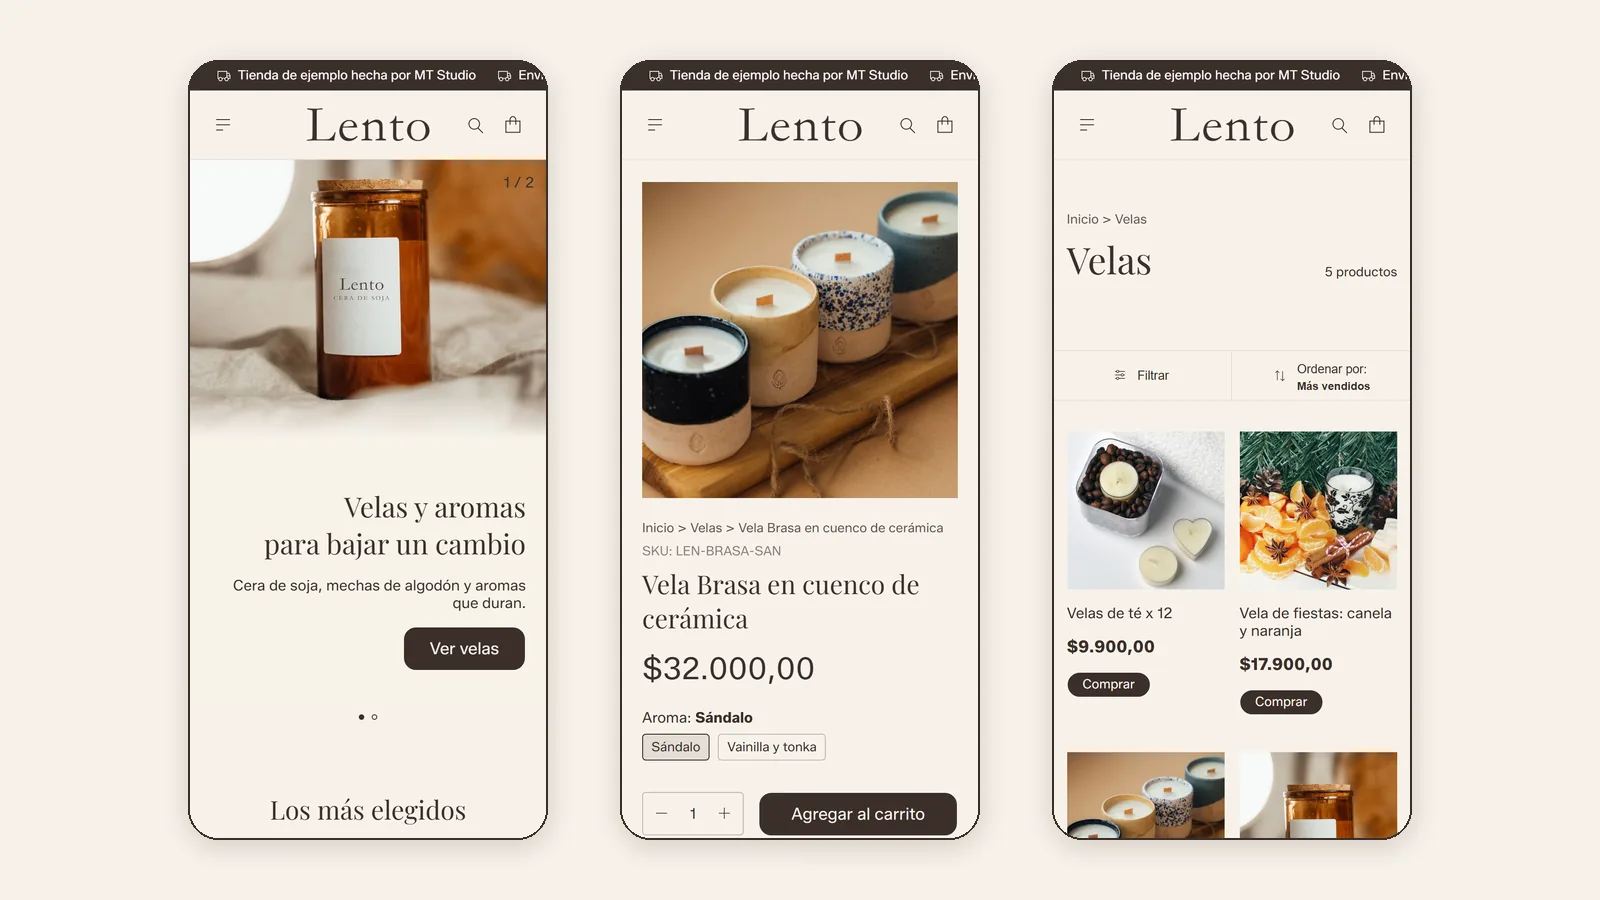
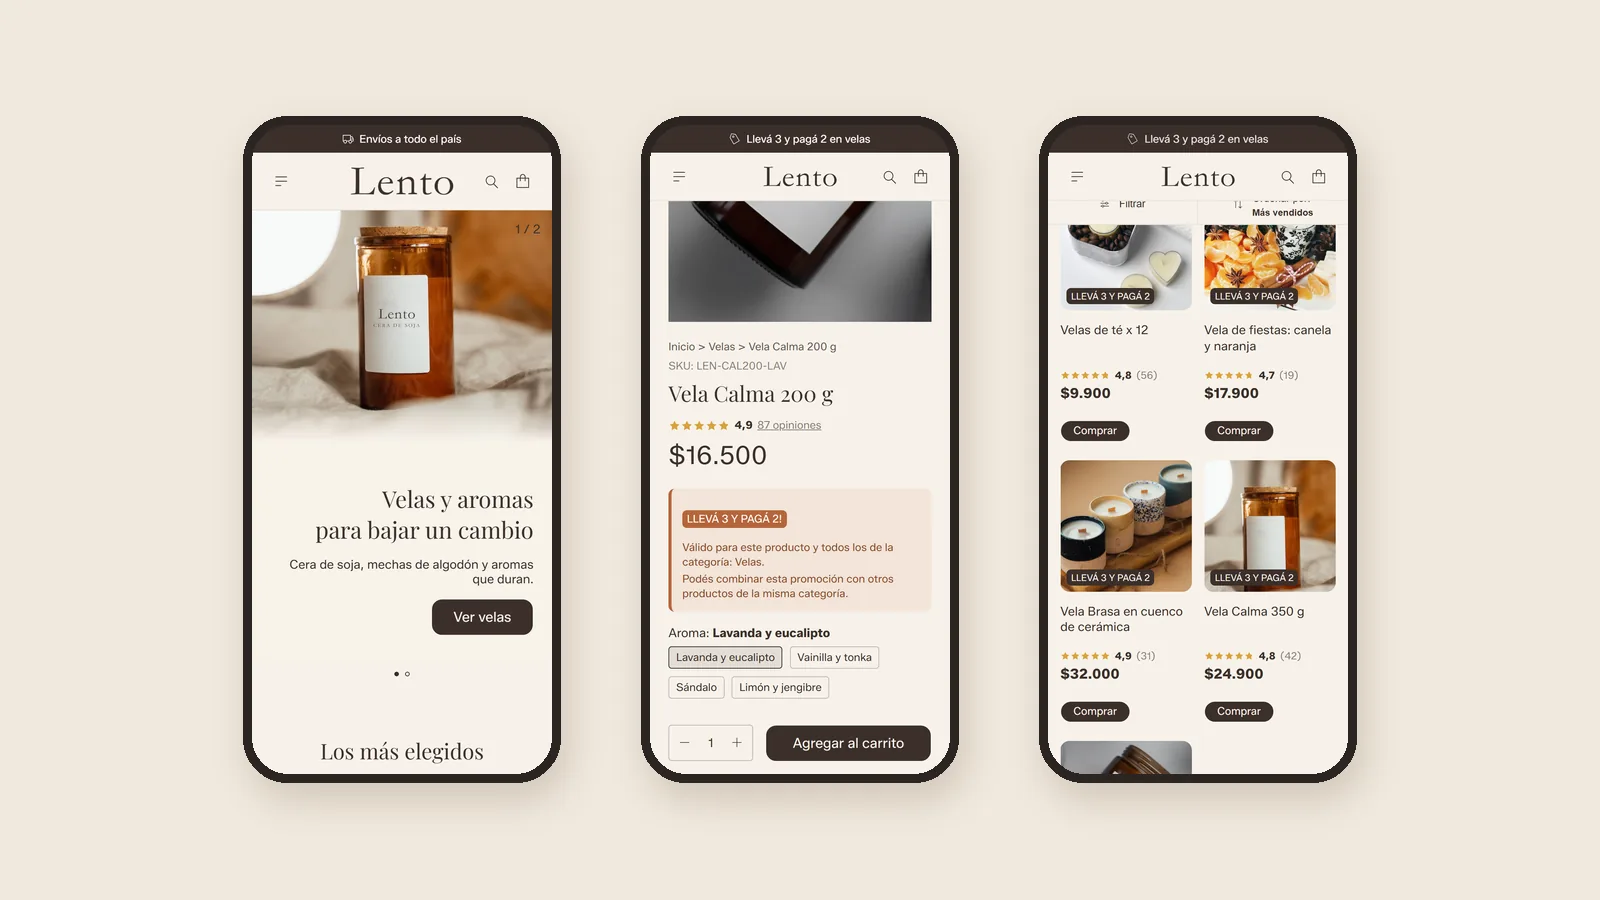
feat(portfolio): Lento con fichas trabajadas y antes y despues
Capturas nuevas de Lento con el diseno publicado el 27/11/2026: portada,
tres celulares, destacados con estrellas, la ficha con la promo 3x2 y los
banners. Las anteriores todavia mostraban el aviso de tienda de ejemplo.

La ficha suma el bloque de antes y despues (la plantilla Ipanema de
fabrica con los mismos productos y la misma promo, contra la tienda
publicada) y los textos de la promo, la entrega estimada y las opiniones
de ejemplo. AFIRMACIONES.md registra por que no se enlaza a la tienda y
la nueva medicion en 7 anchos.

diff --git a/src/data/projects.js b/src/data/projects.js
@@ -158,24 +158,27 @@ We built it on Laravel 13 and PHP 8.4, with PostgreSQL, Redis, and Inertia + Rea
     slug: 'lento',
     title: 'Lento',
     // Tienda de ejemplo, no de un cliente: lo dicen la etiqueta (status
-    // 'ejemplo') y los textos. Sin url ni texto largo: la tienda está protegida
-    // con contraseña y las capturas muestran el trabajo. Ver docs/AFIRMACIONES.md.
+    // 'ejemplo') y los textos. Sin url: desde el 26/11/2026 la tienda no lleva
+    // avisos de ejemplo y tiene opiniones de ejemplo, igual que TooM, así que no
+    // se enlaza desde acá. Ver docs/AFIRMACIONES.md.
     schemaType: 'CreativeWork',
     seoTitle: 'Lento: tienda de ejemplo en Tiendanube',
     seoDescription:
-      'Tienda de ejemplo que armamos en Tiendanube para una marca imaginaria de velas: diseño con la marca, 15 productos en 5 categorías y envíos configurados.',
+      'Tienda de ejemplo que armamos en Tiendanube para una marca imaginaria de velas: diseño con la marca, 15 productos en 5 categorías y fichas con promos y opiniones de ejemplo.',
     tagline: 'Tienda de ejemplo en Tiendanube para una marca de velas',
     description:
-      'Una tienda de ejemplo que armamos en Tiendanube para una marca imaginaria de velas y aromas: diseño con la marca, 15 productos en 5 categorías, páginas de información y envíos configurados. Los productos no están a la venta.',
+      'Una tienda de ejemplo que armamos en Tiendanube para una marca imaginaria de velas y aromas: diseño con la marca, 15 productos en 5 categorías, páginas de información y envíos configurados, y fichas trabajadas con promo 3x2, fecha de entrega estimada y opiniones de ejemplo. Los productos no están a la venta.',
     category: 'Tiendanube',
     tags: ['Tiendanube'],
     year: 2026,
-    updatedAt: '2026-11-23',
+    updatedAt: '2026-11-27',
     status: 'ejemplo',
     featured: false,
-    // Capturas del 23/11/2026, con la tienda publicada: portada a 1280 px de
-    // ancho, celular a 390 px, y la galería en 16:9. Son cuatro a propósito:
-    // con un número impar, la última queda sola en su fila.
+    // Capturas del 27/11/2026, con la tienda publicada: portada a 1280 px de
+    // ancho, celular a 390 px, y la galería en 16:9 (la primera, tres celulares).
+    // Son cuatro a propósito: con un número impar, la última queda sola en su
+    // fila. El antes es la plantilla Ipanema de fábrica con los mismos productos
+    // y la misma promo, capturada en un borrador el 26/11/2026.
     image: '/projects/lento/cover.webp',
     mobileImage: '/projects/lento/mobile.webp',
     images: [
@@ -184,6 +187,16 @@ We built it on Laravel 13 and PHP 8.4, with PostgreSQL, Redis, and Inertia + Rea
       '/projects/lento/screen-3.webp',
       '/projects/lento/screen-4.webp',
     ],
+    beforeAfter: {
+      intro:
+        'La misma tienda en un celular: a la izquierda, la plantilla Ipanema como viene con los productos cargados; a la derecha, con nuestro trabajo. Las estrellas y las opiniones son de ejemplo.',
+      antes: 'Ipanema estándar',
+      despues: 'Con MT Studio',
+      pares: [
+        { titulo: 'La grilla de productos', antes: '/projects/lento/antes-grilla.webp', despues: '/projects/lento/despues-grilla.webp' },
+        { titulo: 'La ficha de producto', antes: '/projects/lento/antes-ficha.webp', despues: '/projects/lento/despues-ficha.webp' },
+      ],
+    },
     color: '#B5653B',
     accentColor: '#8B5CF6',
     metrics: [
@@ -191,7 +204,13 @@ We built it on Laravel 13 and PHP 8.4, with PostgreSQL, Redis, and Inertia + Rea
       { label: 'Categorías', value: '5' },
       { label: 'Tamaños de pantalla revisados', value: '7' },
     ],
-    services: ['Diseño con la marca', 'Carga de productos', 'Envíos y páginas de información', 'Revisión en celular y computadora'],
+    services: [
+      'Diseño con la marca',
+      'Carga de productos',
+      'Envíos y páginas de información',
+      'Fichas con promos, entrega estimada y opiniones de ejemplo',
+      'Revisión en celular y computadora',
+    ],
 
     // Relaciones declaradas: ver src/data/related.js
     relatedServices: ['tiendanube'],
@@ -199,14 +218,30 @@ We built it on Laravel 13 and PHP 8.4, with PostgreSQL, Redis, and Inertia + Rea
     en: {
       tagline: 'Example Tiendanube store for a candle brand',
       description:
-        'An example store we built on Tiendanube for a made-up candle and home fragrance brand: brand design, 15 products in 5 categories, information pages, and shipping set up. The products are not for sale.',
+        'An example store we built on Tiendanube for a made-up candle and home fragrance brand: brand design, 15 products in 5 categories, information pages and shipping set up, and product pages worked on with a buy-3-pay-2 offer, an estimated delivery date, and example reviews. The products are not for sale.',
       category: 'Tiendanube',
+      beforeAfter: {
+        intro:
+          'The same store on a phone: on the left, the stock Ipanema theme with the products loaded; on the right, with our work. The stars and reviews are examples.',
+        antes: 'Stock Ipanema',
+        despues: 'With MT Studio',
+        pares: [
+          { titulo: 'The product grid', antes: '/projects/lento/antes-grilla.webp', despues: '/projects/lento/despues-grilla.webp' },
+          { titulo: 'The product page', antes: '/projects/lento/antes-ficha.webp', despues: '/projects/lento/despues-ficha.webp' },
+        ],
+      },
       metrics: [
         { label: 'Products', value: '15' },
         { label: 'Categories', value: '5' },
         { label: 'Screen sizes checked', value: '7' },
       ],
-      services: ['Brand design', 'Product upload', 'Shipping and information pages', 'Mobile and desktop review'],
+      services: [
+        'Brand design',
+        'Product upload',
+        'Shipping and information pages',
+        'Product pages with promos, delivery estimate and example reviews',
+        'Mobile and desktop review',
+      ],
     },
   },
 

diff --git a/docs/AFIRMACIONES.md b/docs/AFIRMACIONES.md
@@ -31,7 +31,7 @@
 | Tiendas en Tiendanube: entrega en 5 días hábiles desde que tenemos el logo, las fotos y los datos de los productos. El trabajo real lleva 1 a 2 días: el margen cubre varias tiendas a la vez y los feriados. La conexión de los medios de pago se hace con el cliente en la videollamada, así que no cuenta como material | `services.js`: tiendanube (`features`) | Ezequiel | 23/11/2026 |
 | "Partners certificados de Tiendanube": Ezequiel completó la Certificación Base del Programa de Partners de Tiendanube y la cuenta de socio está aprobada | `services.js`: tiendanube (`etiqueta`) | Certificado del 23/11/2026, en PDF; aprobación confirmada por Ezequiel | 23/11/2026 |
 | Tiendas en Tiendanube, qué incluye: diseño con la marca sobre una plantilla de Tiendanube, carrusel y banners para celular y computadora, carga de hasta 30 productos con las fotos del cliente, páginas de información, menús y pie, envíos y medios de pago con las cuentas del cliente, revisión en celular, tablet y computadora, entrega por videollamada, transferencia de la tienda y 30 días de soporte. No incluye el plan de Tiendanube, el dominio propio (opcional: la tienda funciona con la dirección gratis de Tiendanube, como `lentovelas.mitiendanube.com`), las comisiones de pagos y envíos ni la producción de fotos | `services.js`: tiendanube (`features`, `benefits`, `excluye`) | Ezequiel | 23/11/2026 |
-| Lento: tienda de ejemplo de una marca imaginaria, con los productos que no están a la venta; 15 productos en 5 categorías; 7 tamaños de pantalla revisados, de 320 a 1920 px | `projects.js`: lento; `services.js`: tiendanube (`prueba`) | Contado en la tienda publicada y medido con Playwright | 23/11/2026 |
+| Lento: tienda de ejemplo de una marca imaginaria, con los productos que no están a la venta y opiniones de ejemplo; 15 productos en 5 categorías; promo 3x2 en velas (creada en la tienda); 7 tamaños de pantalla revisados, de 320 a 1920 px | `projects.js`: lento (`description`, `metrics`, `services`, `beforeAfter`); `services.js`: tiendanube (`prueba`) | Contado en la tienda publicada y medido con Playwright (7 anchos, otra vez el 27/11/2026, con el diseño nuevo) | 27/11/2026 (antes: 23/11/2026) |
 | TooM: tienda de ejemplo de una marca imaginaria de ropa, con los productos que no están a la venta y opiniones de ejemplo; 4 productos, 76 combinaciones de color y talle, 40 fotos de producto; estampas y fotos hechas por el estudio (las estampas, aplicadas sobre fotos de banco); revisada en celular (390 px) y computadora (1280 y 1366 px) | `projects.js`: toom (`description`, `metrics`, `services`, `beforeAfter`) | Contado en la tienda con el conector de Tiendanube (productos, variantes y fotos) y medido con Playwright | 26/11/2026 |
 | Guía de facturación: **todavía dice** que al monotributista se le emite Factura B. Según la RG 5003/2021, vigente desde el 1/7/2021, el responsable inscripto le emite A | `blog.js`: facturacion-electronica-afip-para-independientes | RG 5003/2021 | **Pendiente: corregir cuando lo confirme el contador** |
 
@@ -43,11 +43,13 @@ En tufactu.app los packs dicen "No vencen*", con la nota "*Créditos válidos po
 
 ### Lento es una tienda de ejemplo
 
-La prueba de la primera pantalla tiene que ser un proyecto en producción. La única excepción es la página de Tiendas en Tiendanube: su prueba es Lento, una tienda de ejemplo que no es de un cliente. Por eso cada texto que la nombra dice "de ejemplo", la ficha del portfolio lleva la etiqueta "Tienda de ejemplo" en lugar de "En vivo", y no enlaza a la tienda, que está protegida con contraseña. Cuando haya una tienda de un cliente publicada, pasa a ser la prueba.
+La prueba de la primera pantalla tiene que ser un proyecto en producción. La única excepción es la página de Tiendas en Tiendanube: su prueba es Lento, una tienda de ejemplo que no es de un cliente. Por eso cada texto que la nombra dice "de ejemplo", la ficha del portfolio lleva la etiqueta "Tienda de ejemplo" en lugar de "En vivo", y no enlaza a la tienda. Cuando haya una tienda de un cliente publicada, pasa a ser la prueba.
+
+Desde el 26/11/2026 Lento sigue el mismo criterio que TooM (abajo): la tienda ya no tiene contraseña ni avisos de ejemplo y muestra opiniones de ejemplo, así que el portfolio no la enlaza y cada texto que menciona las opiniones dice "de ejemplo". Su antes y después compara la plantilla Ipanema de fábrica (un borrador con los mismos productos y la misma promo 3x2, capturado el 26/11/2026) contra la tienda publicada el 27/11/2026: las dos versiones muestran la misma etiqueta de la promo, así que no hay diferencias de datos entre las capturas.
 
 ### TooM también es una tienda de ejemplo
 
-TooM es la segunda tienda de ejemplo, con la etiqueta "Tienda de ejemplo" igual que Lento. A diferencia de Lento, la tienda no lleva avisos de ejemplo (Ezequiel la muestra así a los clientes) y tiene opiniones y estrellas inventadas. Por eso:
+TooM es la segunda tienda de ejemplo, con la etiqueta "Tienda de ejemplo" igual que Lento. La tienda no lleva avisos de ejemplo (Ezequiel la muestra así a los clientes) y tiene opiniones y estrellas inventadas; desde el 26/11/2026 Lento también. Por eso:
 
 - La ficha del portfolio **no enlaza a la tienda**: quien entre desde el sitio no tendría cómo saber que las opiniones son de ejemplo.
 - Cada texto que menciona las opiniones dice "de ejemplo", también el del antes y después, porque **las capturas también afirman** (muestran "4,9 (64)" y similares).
